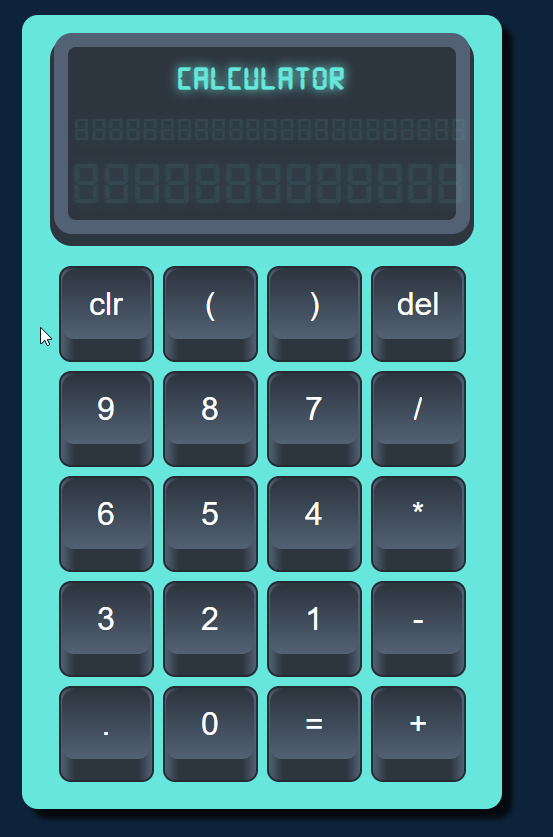
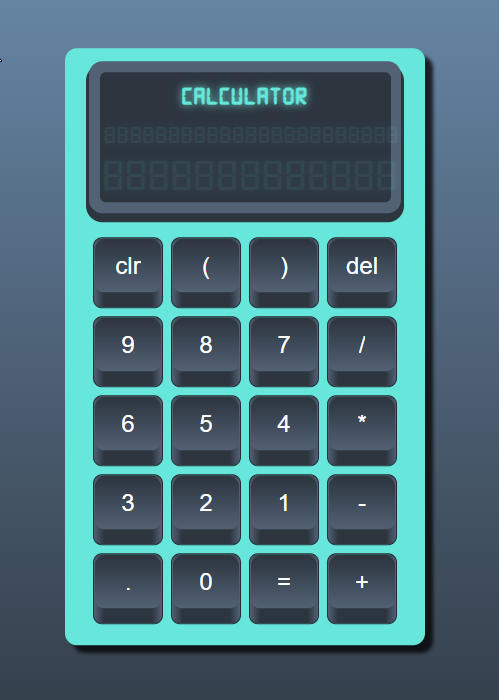
calculator png modificated

diff --git a/README.md b/README.md
@@ -7,13 +7,13 @@ This is a project of a simple calculator developed with the objective of improvi
  
  The calculator has basic operations such as addition, subtraction, multiplication, and division, as well as features to clear the screen and delete one digit at a time.
 
-## Stack used:
+## Stack utilizada
 
 **Front-end:** HTML5, CSS3, JavaSCript
 
-## Color Documentation:
+## Documentação de cores
 
-| Colors               | Hexadecimal                                                |
+| Cor               | Hexadecimal                                                |
 | ----------------- | ---------------------------------------------------------------- |
 | Main Color    | ![#67e6dc](https://via.placeholder.com/10/67e6dc?text=+) #67e6dc |
 | Background Linear Gradient A       | ![#2d353f](https://via.placeholder.com/10/2d353f?text=+) #2d353f |
@@ -27,7 +27,7 @@ This is a project of a simple calculator developed with the objective of improvi
 
 link gradient generator: https://mycolor.space/gradient?ori=to+top&hex=%232D353F&hex2=%236F93B5&sub=1
 
-## Screenshots:
+## Screenshots
 
-![App Screenshot](https://live.staticflickr.com/65535/52859395240_41ba9ec4bc_b.jpg)
+![App Screenshot](https://live.staticflickr.com/65535/52859585438_c0efba0b3e_z.jpg)
 
